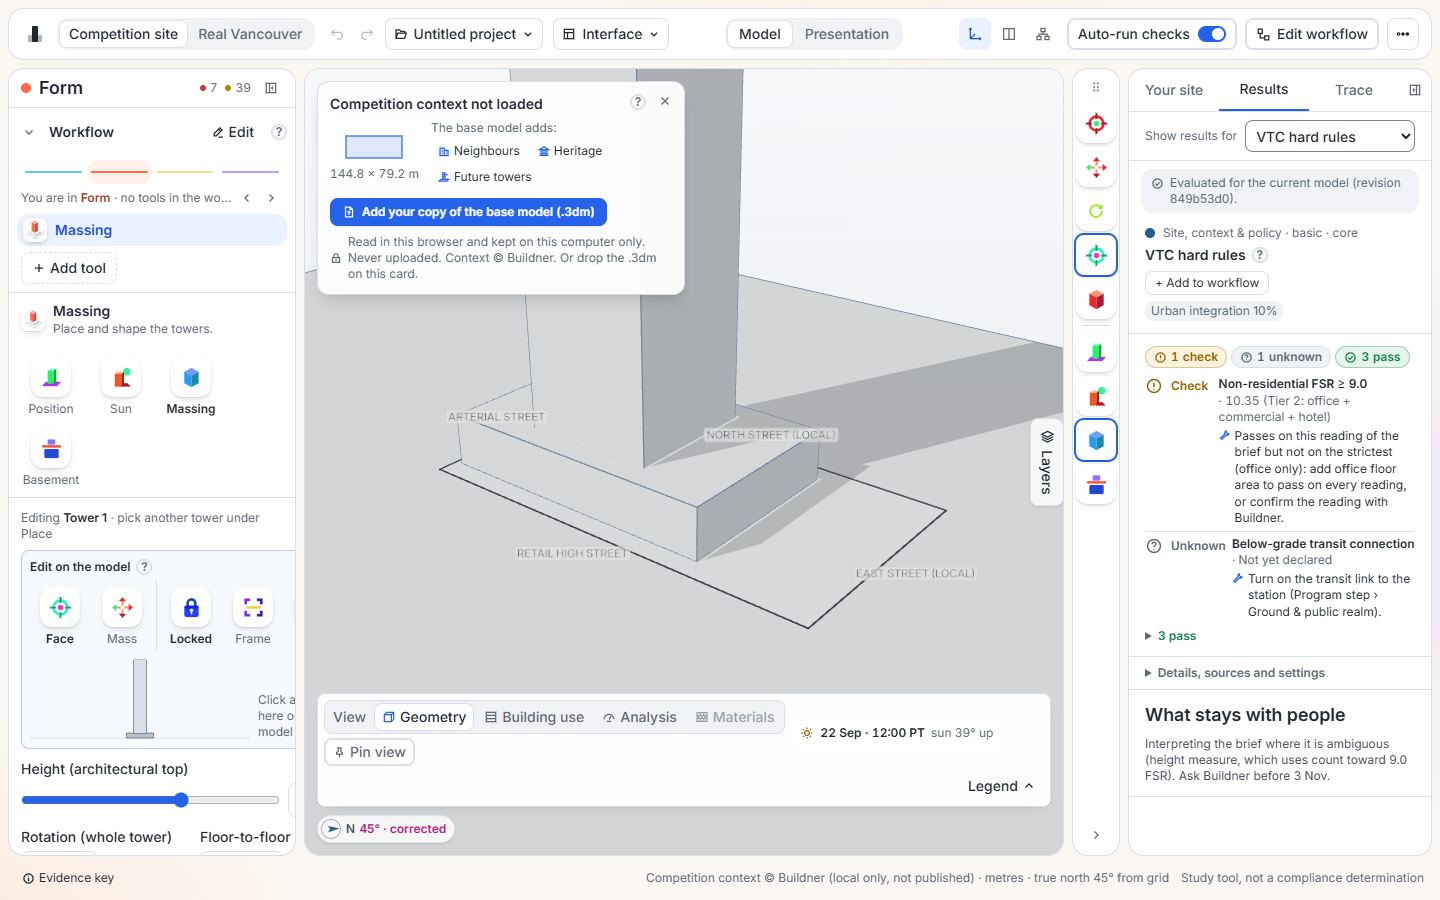
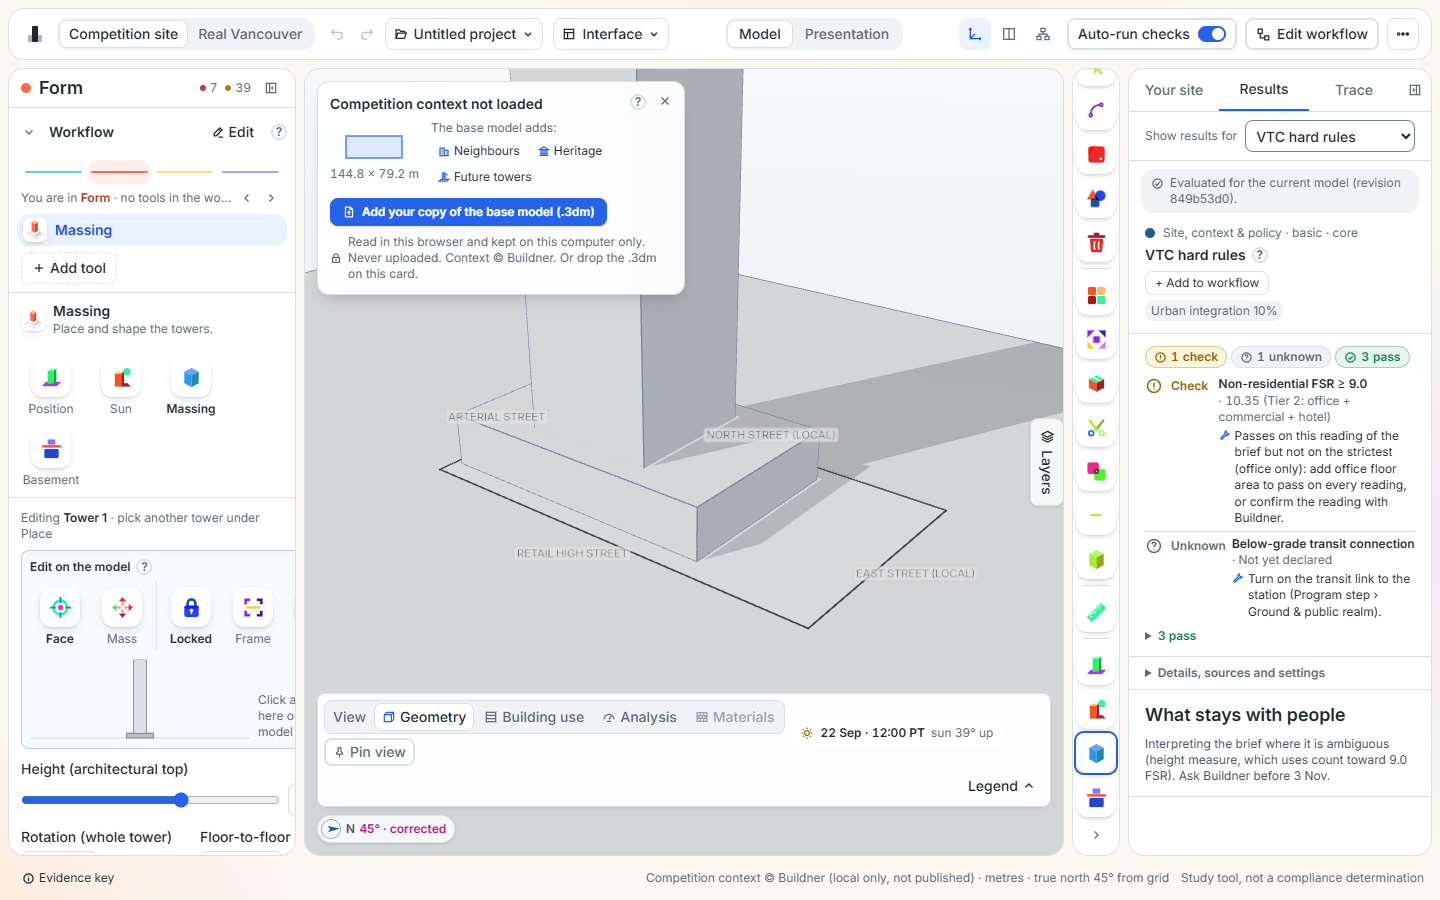
Drawn masses come along to Real Vancouver; CHECKPOINT for Sinnie's modelling tools
Switching to Real Vancouver brings the competition design along; a drawn mass's outline, holes and core now go the
same way as the tower and its storeys are sliced again (one test). The tool-rail e2e's order check allows the
drawing groups between the modes and the step's tools. CHECKPOINT: the branch stays unmerged until Sinnie's OK.

diff --git a/src/lib/defaultSite.test.ts b/src/lib/defaultSite.test.ts
@@ -4,6 +4,7 @@ import { ringMetrics, validateRing } from '../engine/site'
 import { defaultTower, useStore } from '../store'
 import { competitionToCity, DEFAULT_CITY_SITE, longSideDeg, openInRealVancouver } from './defaultSite'
 import { inRing } from './towerPosition'
+import { towerFromDrawn } from './draw/mass'
 
 type Pt = [number, number]
 
@@ -29,6 +30,31 @@ describe('one click to Real Vancouver', () => {
     expect(cb.rotation - ca.rotation).toBeCloseTo(10, 6)
     expect(ca.rotation).toBeCloseTo(longSideDeg(ring), 6)
     expect(inRing([cb.x, cb.y], ring)).toBe(true)
+  })
+
+  it('a drawn mass comes along with its outline, holes and core turned and centred like the towers', () => {
+    const ring = DEFAULT_CITY_SITE.ring as Pt[]
+    const box = { ...defaultTower('vtc'), id: 'p', x: 30, y: 0, rotation: 0 }
+    const d = { pts: [[-10, -10], [10, -10], [10, 10], [-10, 10]] as Pt[], base: 0, floors: 6, f2f: 3.6, holes: [[[-2, -2], [2, -2], [2, 2], [-2, 2]] as Pt[]], core: { x: 4, y: 4, w: 4, d: 4 } }
+    const mass = towerFromDrawn({ ...defaultTower('vtc'), id: 'm', name: 'Mass 1' }, d)
+    const [cb, cm] = competitionToCity([box, mass], ring)
+    const turn = longSideDeg(ring), r = (turn * Math.PI) / 180
+    // the outline's centroid is where the mass now stands, and the mass is as far from the box as before
+    expect(Math.hypot(cb.x - cm.x, cb.y - cm.y)).toBeCloseTo(30, 2)
+    expect(cm.drawn).toBeTruthy()
+    const c = cm.drawn!.pts.reduce((a, q) => [a[0] + q[0] / 4, a[1] + q[1] / 4], [0, 0] as Pt)
+    expect([cm.x, cm.y]).toEqual([expect.closeTo(c[0], 1), expect.closeTo(c[1], 1)])
+    // a corner went round by the grid's turn: the first corner is (-10, -10) turned, from the new centre
+    const [px, py] = cm.drawn!.pts[0]
+    expect([px - c[0], py - c[1]]).toEqual([expect.closeTo(-10 * Math.cos(r) + 10 * Math.sin(r), 1), expect.closeTo(-10 * Math.sin(r) - 10 * Math.cos(r), 1)])
+    // the hole and the core moved with it, the core keeping its size
+    const h = cm.drawn!.holes![0].reduce((a, q) => [a[0] + q[0] / 4, a[1] + q[1] / 4], [0, 0] as Pt)
+    expect([h[0], h[1]]).toEqual([expect.closeTo(c[0], 1), expect.closeTo(c[1], 1)])
+    expect(cm.drawn!.core).toMatchObject({ w: 4, d: 4 })
+    expect(Math.hypot(cm.drawn!.core!.x + 2 - c[0], cm.drawn!.core!.y + 2 - c[1])).toBeCloseTo(Math.hypot(6, 6), 1)
+    // the storeys were sliced again from the moved outline: the same count and floor area as before
+    expect(cm.imported?.storeys.length).toBe(mass.imported?.storeys.length)
+    expect(cm.rotation).toBe(0)
   })
 
   it('switching sets the default site and brings the design, once; a site or towers already there are kept', () => {

diff --git a/src/lib/defaultSite.ts b/src/lib/defaultSite.ts
@@ -16,6 +16,7 @@ import type { Tower } from '../engine/types'
 import data from '../data/defaultSite.json'
 import { breakStep } from './project/history'
 import { normalizeDeg } from './towerEdit'
+import { towerFromDrawn } from './draw/mass'
 import { useStore } from '../store'
 
 type Pt = [number, number]
@@ -44,7 +45,18 @@ export function competitionToCity(towers: Tower[], ring: Pt[]): Tower[] {
   const turn = longSideDeg(ring), r = (turn * Math.PI) / 180, c = Math.cos(r), s = Math.sin(r)
   const [cx, cy] = ringMetrics(ring).centre
   const r3 = (v: number) => Math.round(v * 1000) / 1000
-  return towers.map((t) => ({ ...t, x: r3(cx + t.x * c - t.y * s), y: r3(cy + t.x * s + t.y * c), rotation: normalizeDeg(t.rotation + turn) }))
+  const move = (p: Pt): Pt => [r3(cx + p[0] * c - p[1] * s), r3(cy + p[0] * s + p[1] * c)]
+  return towers.map((t) => {
+    // A drawn mass (lib/draw/mass.ts) keeps its outline in the project frame: the outline, holes and core go the same
+    // way as the tower, and the storey stack is sliced again from the moved outline (the core stays axis-aligned, its
+    // centre moved, its size kept).
+    if (t.drawn) {
+      const d = t.drawn
+      const core = d.core ? (() => { const [x, y] = move([d.core.x + d.core.w / 2, d.core.y + d.core.d / 2]); return { ...d.core, x: r3(x - d.core.w / 2), y: r3(y - d.core.d / 2) } })() : undefined
+      return towerFromDrawn(t, { ...d, pts: d.pts.map(move), ...(d.holes ? { holes: d.holes.map((h) => h.map(move)) } : {}), ...(core ? { core } : {}) })
+    }
+    return { ...t, ...(() => { const [x, y] = move([t.x, t.y]); return { x, y } })(), rotation: normalizeDeg(t.rotation + turn) }
+  })
 }
 
 /** Switch to Real Vancouver, setting the default site and bringing the design when there is none there yet. */

diff --git a/e2e/tool-rail.e2e.ts b/e2e/tool-rail.e2e.ts
@@ -45,8 +45,9 @@ test('Tool rail: the step\'s tools beside the model, the same as the panel; H hi
   expect(panelTools.length).toBeGreaterThan(1)
   await expect.poll(() => ids(rail(p).locator('[data-tool]'), 'tool')).toEqual(panelTools)
   expect(await ids(rail(p).locator('[data-mode]'), 'mode')).toEqual(['place', 'move', 'rotate', 'face', 'mass'])
-  const order = await rail(p).locator('[data-mode], [role="separator"], [data-tool]').evaluateAll((els) => els.map((e) => (e.hasAttribute('data-mode') ? 'mode' : e.hasAttribute('data-tool') ? 'tool' : 'sep')).join(' '))
-  expect(order).toMatch(/^(mode )+sep( tool)+$/)
+  // Since 17 Nov the drawing tools (Sinnie Choi's) sit between them on the Form step, in their own divided groups.
+  const order = await rail(p).locator('[data-mode], [role="separator"], [data-draw], [data-tool]').evaluateAll((els) => els.map((e) => (e.hasAttribute('data-mode') ? 'mode' : e.hasAttribute('data-tool') ? 'tool' : e.hasAttribute('data-draw') ? 'draw' : 'sep')).join(' '))
+  expect(order).toMatch(/^(mode )+(sep (draw )+)*sep( tool)+$/)
 
   // A tool picked in the rail opens in the panel, and the rail shows it open.
   await rail(p).locator('[data-tool="massing"]').click()

diff --git a/CHECKPOINT.md b/CHECKPOINT.md
@@ -1,3 +1,54 @@
+# CHECKPOINT: Sinnie Choi's modelling tools in the Toolkit (17 Nov 2026)
+
+Ruijie, 17 Nov: port Sinnie Choi's "Start your massing" and her drawing tools from her Toolkit build and
+github.com/xubynii/towerdesigntool into the main tool. Branch `sinnie-modelling` from the `ui-drawer` tip. Decisions
+mine (approved in advance). Not merged, not deployed. **This branch stays unmerged until Sinnie gives her written OK**
+(the ask is drafted in `04 Tool Plan/permissions/DRAFT_MESSAGES.md` §1d); she is credited in every ported file's header,
+in the Drawing tab's note and on the Sources page (Credits).
+- **Start your massing** (`components/draw/StartMassing.tsx`, in the Form step's Massing tool while the project has no
+  tower): four icon tiles. *From scratch* places the Toolkit's own starting tower and starts placing it (the step the
+  twenty existing journeys take; its `place-tower` test id is kept). *Import* opens the model import in place. *Case
+  study* lists nine towers (`lib/draw/caseStudies.ts`: Shangri-La, Trump, 30 St Mary Axe, Vancouver House, One Wall
+  Centre, …) with Sinnie's published numbers, unverified; a click places the starting tower with that height, storey
+  count, floor-to-floor and footprint. *Typology* (`components/draw/TowerForms.tsx`): none, taper, twist, tiered,
+  stacked, each with its sliders, applied as the tower's blocks; the tower remembers its `form` so the sliders read back.
+- **Drawn masses are towers** (`lib/draw/mass.ts`, `engine/types.ts` `Tower.drawn`): the outline, base, storeys,
+  floor-to-floor, holes, part and core live in `drawn`; from them the tower carries an imported-style storey stack,
+  made by extruding the outline into a closed mesh and running the same slicer as an uploaded model, so every engine
+  (VTC rules, FSR, cones, lifts, egress, energy, boards) reads it unchanged and the 3D view draws it as an import.
+  Six storeys at 3.6 m to start, named "Mass n". `part` groups the masses of one building (a union of different
+  heights, a Split): they move together and keep their own heights. A placed core sets the core share by hand.
+- **The tools** (`components/draw/DrawTools3D.tsx` in the scene's z-up group, state in `lib/draw/drawStore.ts`,
+  geometry in `lib/draw/geometry.ts`): Select; Line (freeform corners, or an offset band of a set width, centre /
+  internal / external); Rectangle; Circle; Erase; Move; Copy / array (drag, then a typed count lays the row); Rotate in
+  5° steps; Offset (drag or typed metres); Push / pull (a roof changes storeys, a wall moves; click-move-click or drag;
+  typed value); Split (a chord with corner, middle and edge snaps; in a side view, at a floor); Boolean (union,
+  subtract, intersect, Sinnie's rules: each part keeps its height); Edit length (click a wall, type); Core (drag inside
+  a mass; click a core to remove it); Tape. A live dimension tag follows the pointer; typed digits commit on Enter,
+  Backspace edits, Esc clears, then Esc ends the tool; every edit is one undo step; no confirm dialogs; short toasts
+  (`DrawToast.tsx`). The Drawing tab (`DrawPanel.tsx`) shows the tool, its modes, what to do next, the typed value,
+  Done and the snapping panel: Grid and its size (0.25–5 m), and for Line and Split endpoints, midpoints, on edges, in
+  line with corners, parallel / perpendicular and the angle step; kept per browser as `ts.draw.snap`. Alt suspends
+  snapping while held, Shift locks 90°.
+- **Boolean geometry:** `polygon-clipping` 0.15.7 (MIT) vendored as ES modules in `src/vendor/polygon-clipping/` with
+  `splaytree` (MIT) and `robust-predicates` (public domain), licences beside them; no new npm dependency.
+- **The rail** (`ToolRail.tsx`): the drawing tools sit on the Form step in Model as filled-glyph groups (draw, change,
+  cut, measure). The rail's Move and Rotate are one tool each: M and R act on whatever is selected, a drawn mass through
+  the drawing tool, a parametric tower through its gizmo (`TowerGizmo.tsx`). Each drawing tool lists itself in the
+  Interface drawer under Design tools › Drawing tools.
+- **Keys** (clashes resolved in the Toolkit's favour: V, L, R, O, F, P, H, 1/2/3 stay): Select S · Line N · Rectangle B ·
+  Circle I · Erase E · Move M · Copy C · Rotate R · Offset G · Push / pull U · Split X · Boolean J · Tape T · Edit length
+  and Core from the rail only · Esc ends · Del deletes · Ctrl+Z undoes. Listed in the user guide and the onboarding.
+- **Found on the way:** the Tower position tool's placement click fired on an Erase click and wrote a second undo step,
+  so Ctrl+Z seemed to do nothing; it stands down while a drawing tool is on (`TowerPosition3D.tsx`). Switching to Real
+  Vancouver brings the competition design along (`lib/defaultSite.ts`) but moved only x, y and rotation: a drawn mass
+  kept its outline in competition coordinates. The outline, holes and core now go the same way and the storeys are
+  sliced again (`defaultSite.test.ts`); the core stays axis-aligned, its centre moved, its size kept.
+- **Not done / limits:** the case-study numbers are Sinnie's and unverified; Sinnie's own `R` (Rectangle) and `L`
+  (Line) became B and N; a drawn mass has no gizmo of its own (the drawing tools are its handles); Rotate turns the
+  outline in plan only.
+- **Tests:** `tsc -b` PASS · `vitest run` 1,263 pass, 3 skipped (+10 `lib/draw/geometry.test.ts`: area and winding, offset, path band, clip union / difference, split, push wall, set wall length, array copies, prism mesh; +3 `lib/draw/mass.test.ts`: tower-from-drawn, add and update as one undo step, update-many; +1 `lib/defaultSite.test.ts`: a drawn mass brought along; the same 2 CRLF data-file checks fail in this worktree only) · Edge e2e: `e2e/drawing-tools.e2e.ts` (new: the four start tiles; a rectangle drawn on the ground; Push / pull typed to 36 m and the VTC height band reading Mass 1; Offset typed; Copy ×3 typed; Split; Boolean union; Erase; Ctrl+Z; Real Vancouver: Vancouver House placed from the case list, a mass drawn on the city) PASS · `tool-rail` PASS (its order check now allows the drawing groups) · `massing-edit` PASS · `model-presentation` PASS · `journeys` PASS. Screenshots: `docs/evaluation/2026-11-17-drawing-tools/01-start-massing.png` (the tiles and the case list) and `02-drawing.png` (Mass 1 pulled to 36 m, the toast, the rail's drawing tools).
+
 # CHECKPOINT: the Interface drawer, what the app shows as a table of contents (17 Nov 2026)
 
 Ruijie, 17 Nov: "another button whose drop-down is about personalising the interface … a drawer holding everything that
